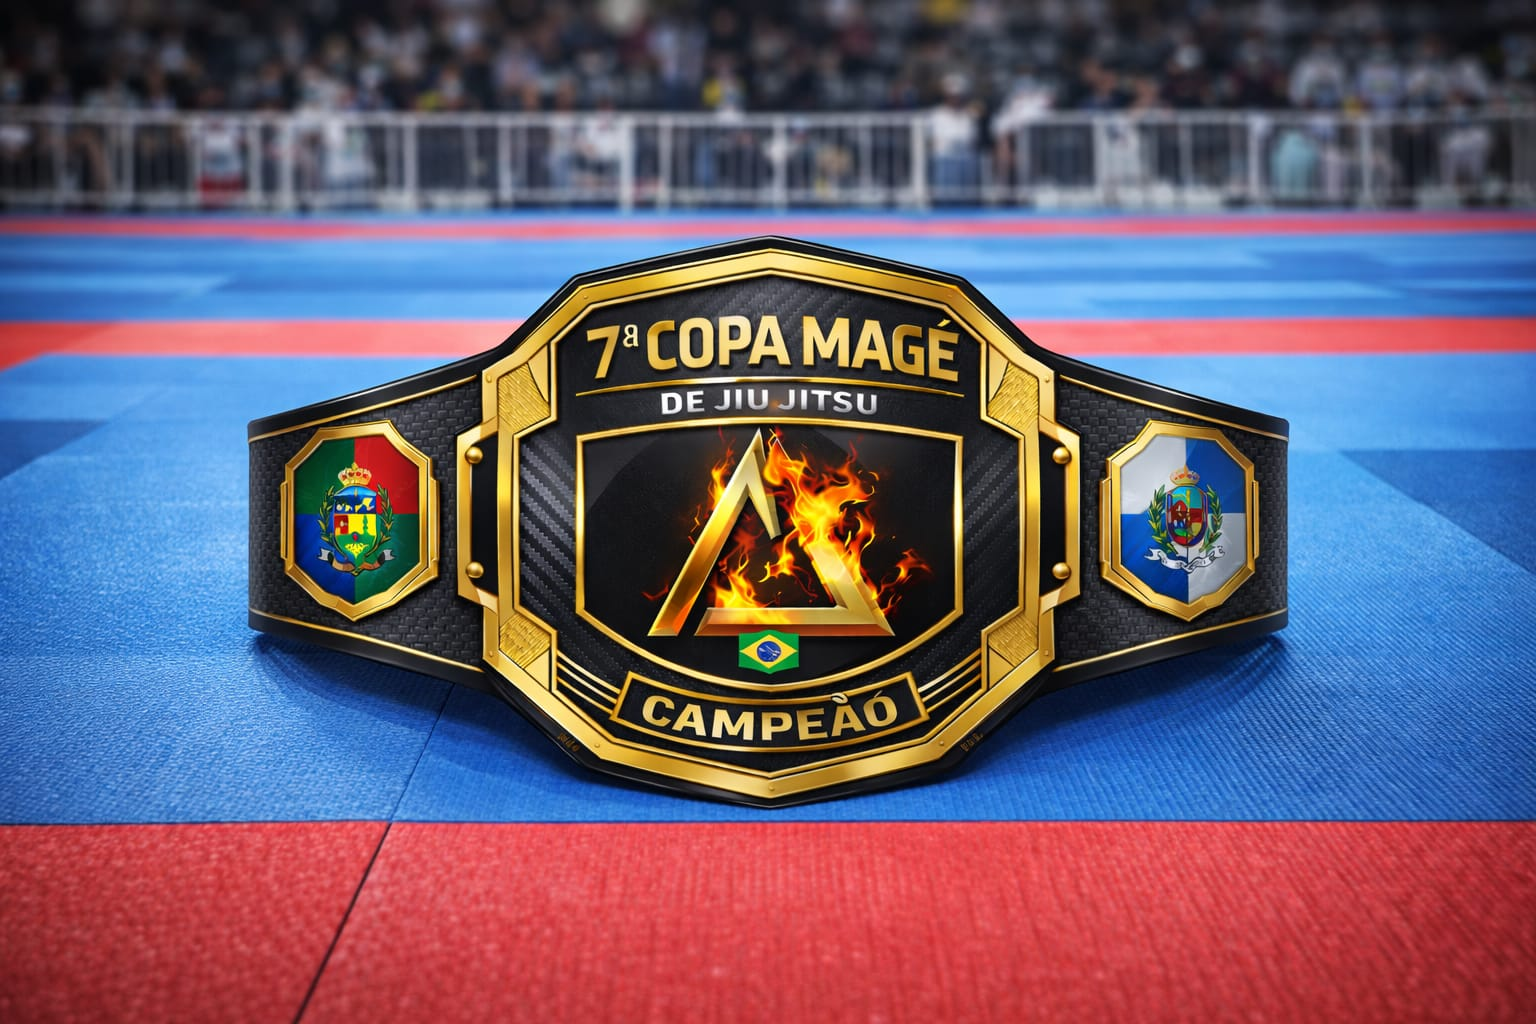
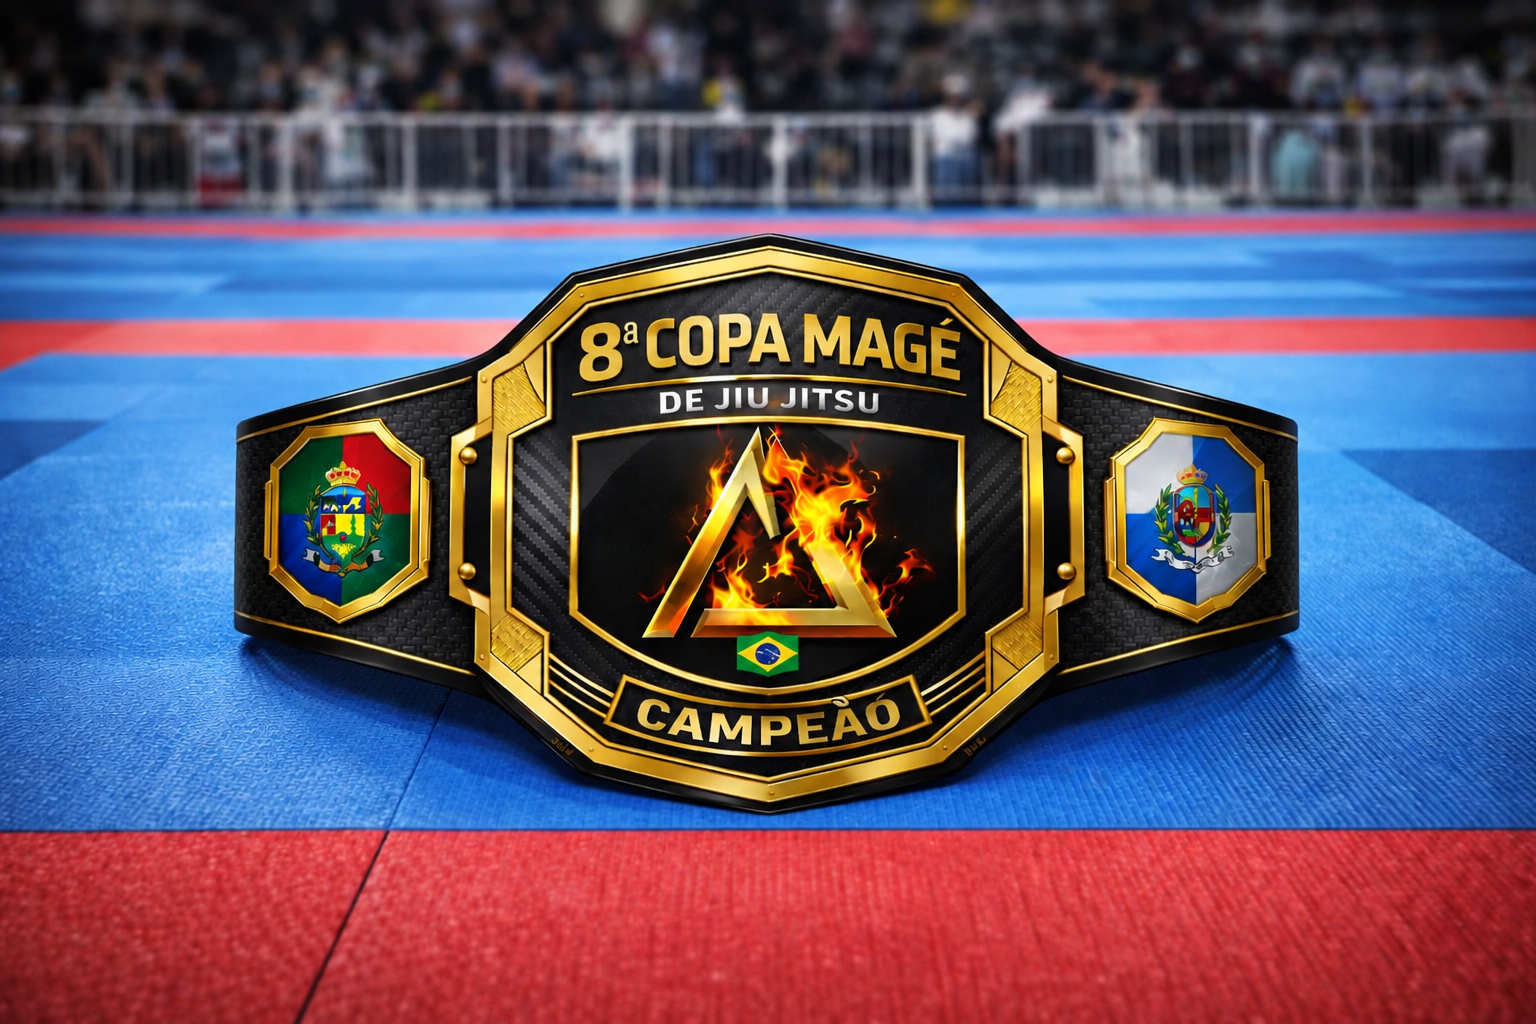
feat: Atualizando para a nova edição

diff --git a/lib/constants.ts b/lib/constants.ts
@@ -1,10 +1,10 @@
 export const EVENT_INFO = {
-    name: "7ª Copa Magé de Jiu-Jitsu",
-    edition: "7ª",
-    date: "21 de Abril (Feriado)",
+    name: "8ª Copa Magé de Jiu-Jitsu",
+    edition: "8ª",
+    date: "12 de Outubro (Feriado)",
     location: "Poliesportivo de Mauá",
-    deadline: "2026-04-08T23:59:59-03:00",
-    eventDate: "2026-04-21T09:00:00-03:00",
+    deadline: "2026-09-28T23:59:59-03:00",
+    eventDate: "2026-10-12T09:00:00-03:00",
     whatsappNumber: "5521988708875",
     instagram: "@copamagejjofc",
     contactEmail: "[email redacted]",

diff --git a/app/page.tsx b/app/page.tsx
@@ -70,7 +70,7 @@ export default function HomePage() {
           </div>
 
           <h1 className="text-6xl md:text-9xl font-black mb-4 tracking-tighter uppercase italic leading-none animate-fade-in" style={{ animationDelay: '0.2s' }}>
-            <span className="block text-white">7ª COPA MAGÉ</span>
+            <span className="block text-white">8ª COPA MAGÉ</span>
             <span className="block text-transparent bg-clip-text bg-gradient-to-r from-primary via-secondary to-primary">DE JIU-JITSU</span>
           </h1>
 
@@ -328,8 +328,8 @@ export default function HomePage() {
       <footer className="bg-[#0a0a0a] py-12 px-4 border-t border-white/5">
         <div className="container mx-auto text-center">
           <div className="mb-8">
-            <h3 className="font-black text-2xl uppercase tracking-tighter text-white mb-2 italic">7ª Copa Magé de Jiu-Jitsu</h3>
-            <p className="text-muted-foreground uppercase text-xs font-bold tracking-[0.3em]">21 de Abril • Poliesportivo de Mauá</p>
+            <h3 className="font-black text-2xl uppercase tracking-tighter text-white mb-2 italic">8ª Copa Magé de Jiu-Jitsu</h3>
+            <p className="text-muted-foreground uppercase text-xs font-bold tracking-[0.3em]">12 de Outubro • Poliesportivo de Mauá</p>
           </div>
           <div className="border-t border-white/5 pt-8">
             <p className="text-muted-foreground/40 text-[10px] uppercase font-bold tracking-widest">

diff --git a/components/header.tsx b/components/header.tsx
@@ -52,12 +52,12 @@ export function Header({ onOpenRegistration }: HeaderProps) {
                     <div className="w-10 h-10 rounded-sm overflow-hidden flex items-center justify-center">
                         <img
                             src="/image/hazaq-logo.png"
-                            alt="7ª Copa Magé"
+                            alt="8ª Copa Magé"
                             className="w-full h-full object-contain"
                         />
                     </div>
                     <div>
-                        <h1 className="font-bold text-xl uppercase tracking-tighter text-primary">7ª Copa Magé</h1>
+                        <h1 className="font-bold text-xl uppercase tracking-tighter text-primary">8ª Copa Magé</h1>
                         <p className="text-[10px] uppercase font-bold tracking-[0.2em] text-muted-foreground">Jiu-Jitsu Championship</p>
                     </div>
                 </Link>